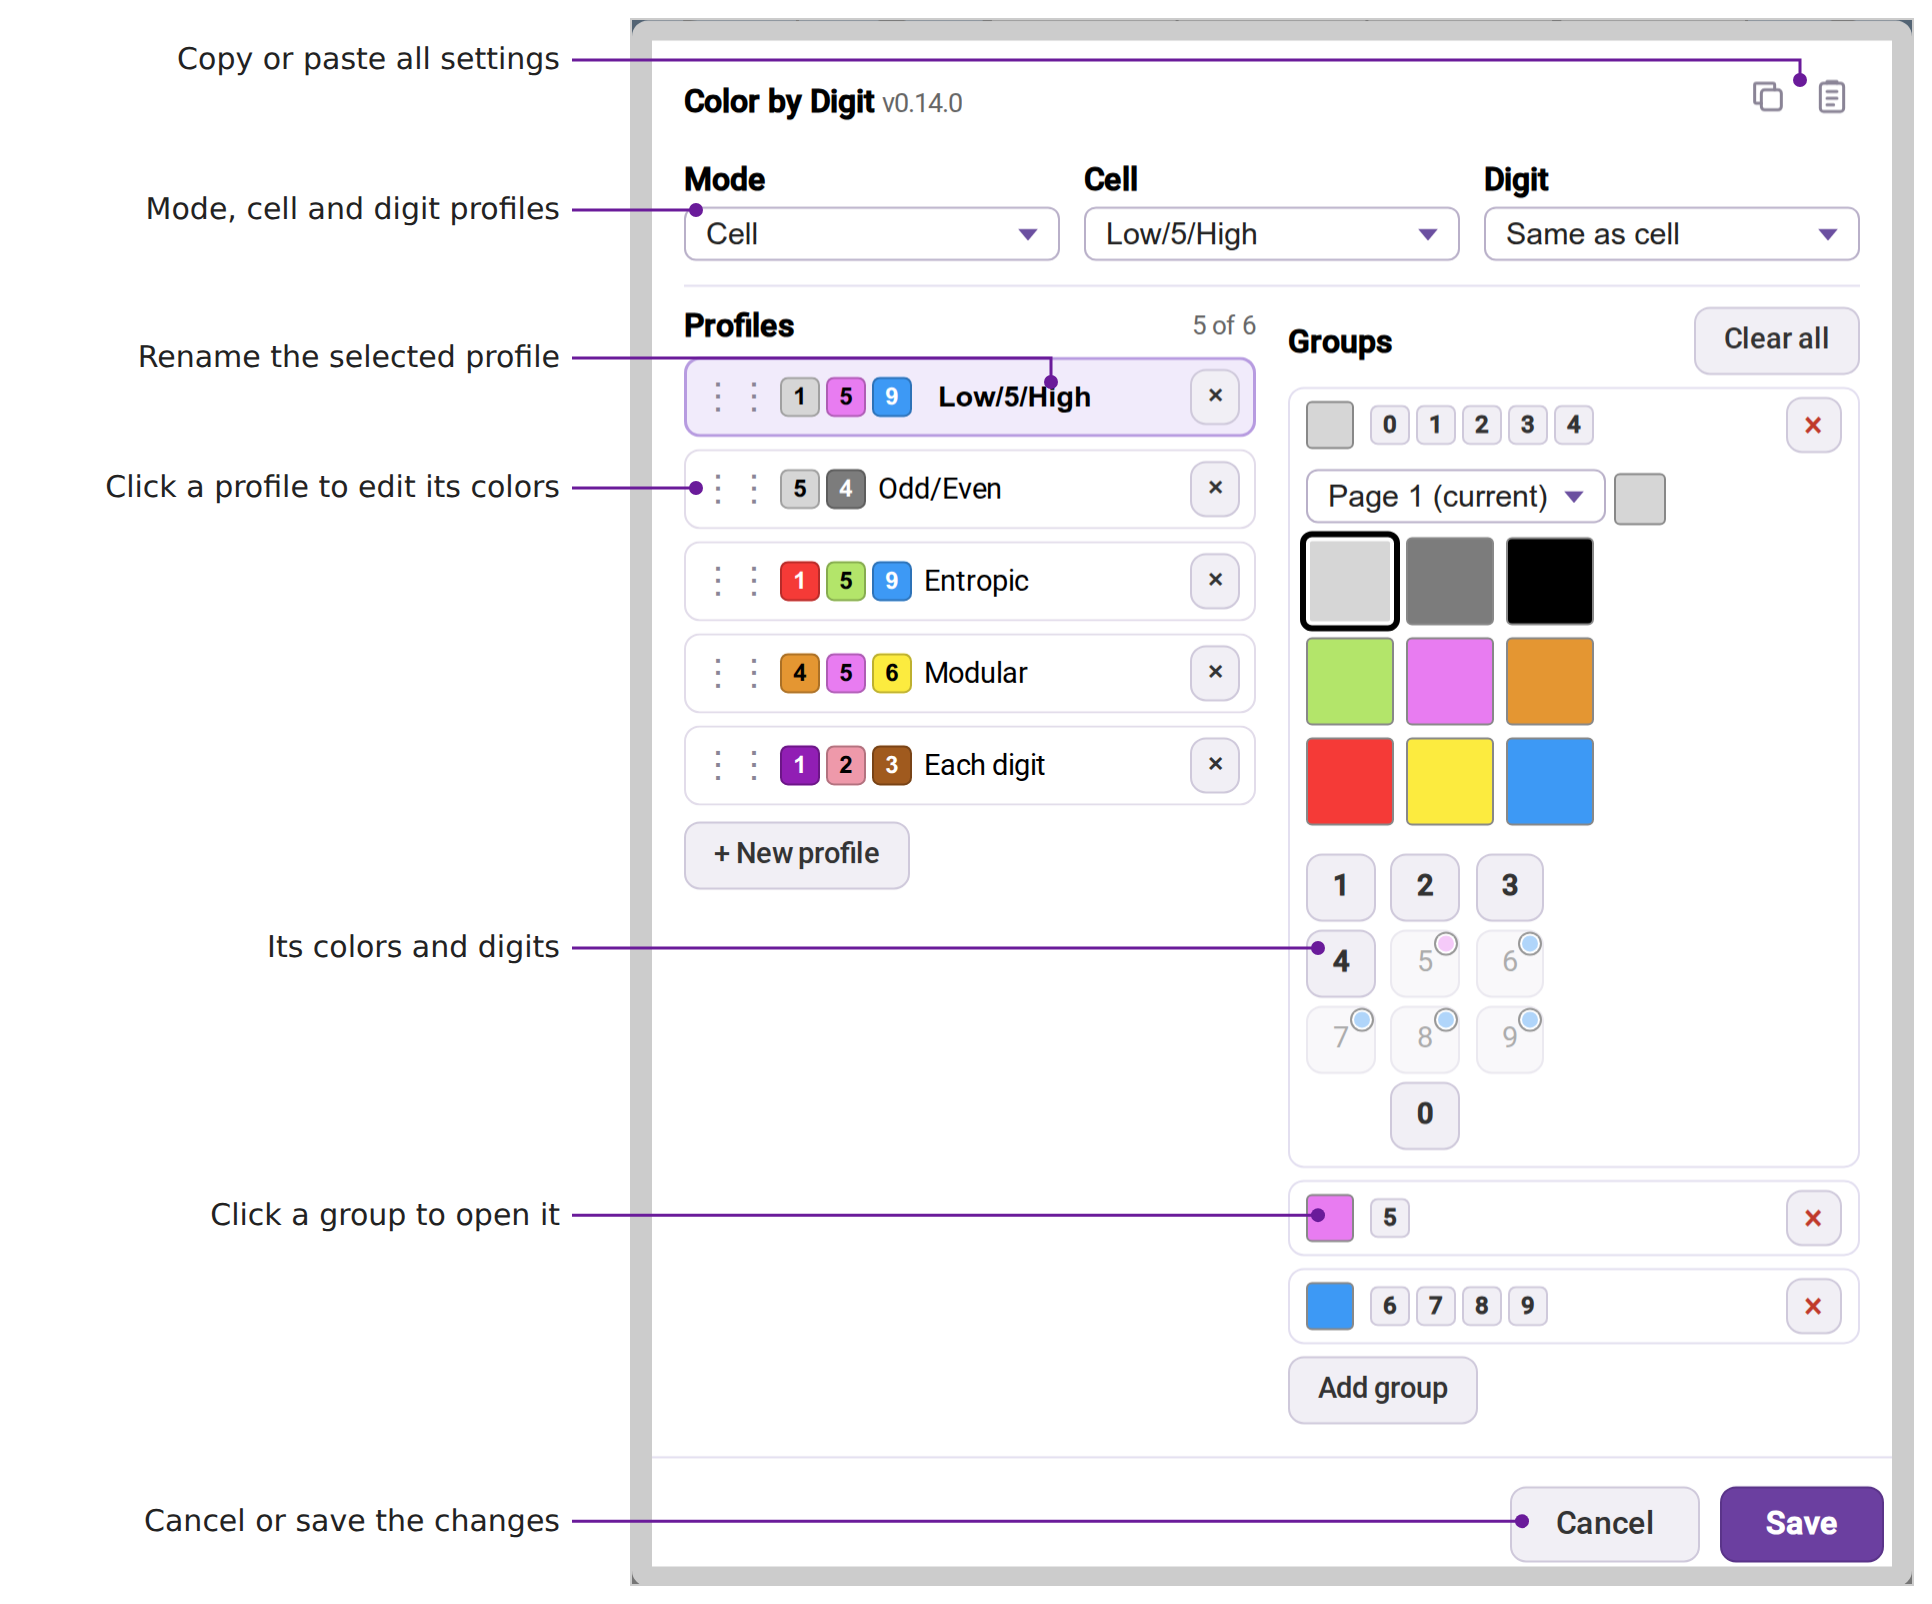
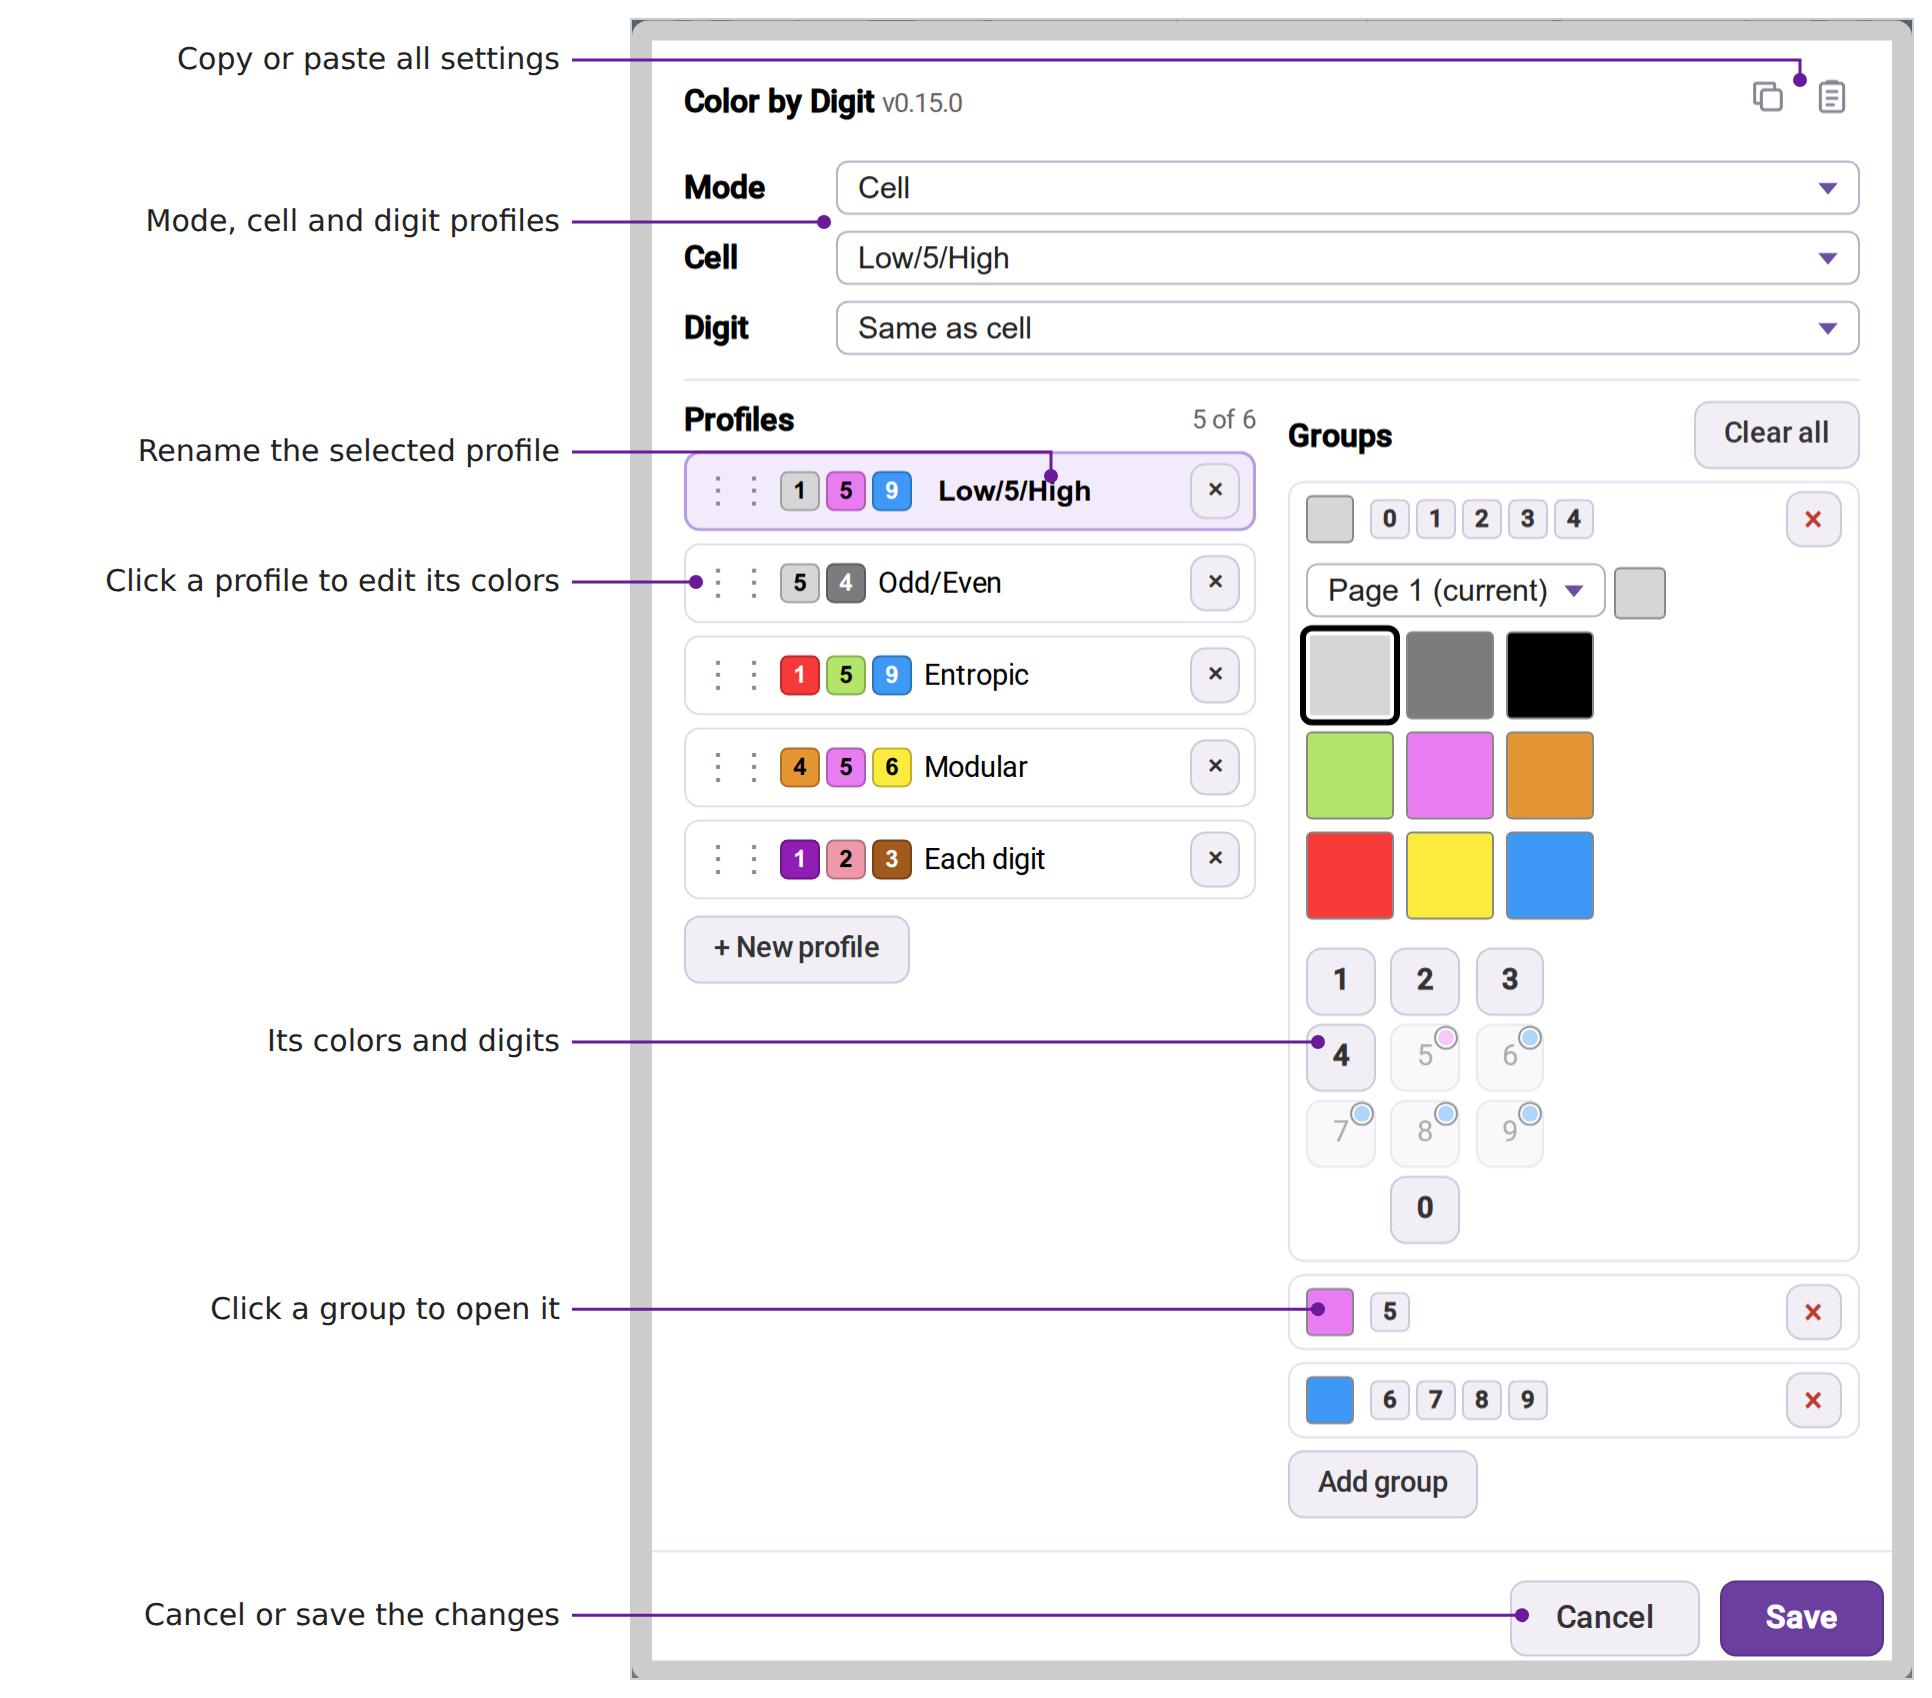
Color by Digit dialog: label-left pulldown rows (#346)
Mode, Cell and Digit go one per row, each label in a fixed-width column
left of its pulldown, at desktop and phone width. Version 0.15.0; the
annotated dialog picture is retaken and retagged. Part 2 (the open
group's side-by-side layout) is out of scope per the ticket's last comment.

Closes #346

diff --git a/color-by-digit.user.js b/color-by-digit.user.js
@@ -1,7 +1,7 @@
 // ==UserScript==
 // @name         SudokuPad Color by Digit
 // @namespace    https://github.com/caneff/sudokupad-scripts
-// @version      0.14.0
+// @version      0.15.0
 // @description  Colors cells, or the digits and marks in them, by digit, with colors you give to groups of digits, and keeps the colors in step as you solve.
 // @match        https://sudokupad.app/*
 // @match        https://*.sudokupad.app/*
@@ -17,7 +17,7 @@
   'use strict'
 
   // GM_info is absent without Tampermonkey, so the script cannot read @version; keep this equal to it.
-  const VERSION = '0.14.0'
+  const VERSION = '0.15.0'
   const SETTINGS_GROUP = 'experimental'
   // The groups saved before profiles existed. Read when no profiles are saved; never written or removed.
   const LEGACY_GROUPS_KEY = 'ColorByDigit_groups'
@@ -728,8 +728,8 @@
   const SMALL_BUTTON_SIZE = 28
   // Two columns need this much room each; the dialog's 640 px gives them two, a phone gives one.
   const COLUMN_MIN = 270
-  // Three pulldowns fit one row of the 640 px dialog; at phone width they stack.
-  const PULLDOWN_MIN = 180
+  // Wide enough for the longest of Mode, Cell and Digit, so the three pulldowns start at one edge.
+  const PULLDOWN_LABEL_WIDTH = 64
   const DIALOG_WIDTH = 640
   const heading = (text, extra = '') => `<div class="cbd-heading">${text}${extra}</div>`
   const SAVE_LABEL = 'Save'
@@ -859,8 +859,8 @@
     [`.dialog.${DIALOG_CLASS}`, `width: ${DIALOG_WIDTH}px; max-width: calc(100vw - 16px); box-sizing: border-box`],
     [`${EDITOR} .cbd-divider`, `border-top: 1px solid ${RULE_COLOR}; margin: 12px 0 0; padding-top: 10px`],
     [`${EDITOR} .cbd-note`, 'margin: 6px 0'],
-    [`${EDITOR} .cbd-pulldowns`, `display: grid; gap: 8px 12px; grid-template-columns: repeat(auto-fit, minmax(${PULLDOWN_MIN}px, 1fr)); margin: 0 0 10px`],
-    [`${EDITOR} .cbd-pulldown`, 'display: flex; flex-direction: column; gap: 4px; min-width: 0; margin: 0; padding: 0; font-weight: 600; text-align: left'],
+    [`${EDITOR} .cbd-pulldowns`, 'display: grid; gap: 8px; margin: 0 0 10px'],
+    [`${EDITOR} .cbd-pulldown`, `display: grid; grid-template-columns: ${PULLDOWN_LABEL_WIDTH}px minmax(0, 1fr); align-items: center; gap: 12px; min-width: 0; margin: 0; padding: 0; font-weight: 600; text-align: left`],
     [`${EDITOR} .cbd-columns`, `display: grid; gap: 16px; grid-template-columns: repeat(auto-fit, minmax(${COLUMN_MIN}px, 1fr))`],
     [`${EDITOR} .cbd-column`, 'min-width: 0'],
     [`${EDITOR} .cbd-button`, 'background: #f1eff5; color: #333; border: 1px solid #cfc9db; border-radius: 8px; font-size: .9rem; font-weight: 500; padding: 0 14px; height: 34px; line-height: 32px; margin: 0; cursor: pointer'],

diff --git a/site/color-by-digit.html b/site/color-by-digit.html
@@ -37,7 +37,7 @@
 
   <h2>The settings dialog</h2>
   <p>Edit profiles in the menu opens it. At the top are three pulldowns: Mode, Cell (the profile that colors the cells) and Digit (Same as cell, a profile, or None). Under them, on a desktop, are two columns, the profile list on the left and the selected profile's groups on the right; on a phone the pulldowns and the columns each stack.</p>
-  <img class="panel" src="https://raw.githubusercontent.com/caneff/sudokupad-scripts/main/docs/research/color-by-digit-dialog-annotated.png?v=f5e341a" alt="The Color by Digit settings dialog with each part labelled on its left. Settings icons: copy or paste all settings. Pulldowns: mode, cell and digit profiles. Selected profile: rename it in its row. Profile list: click a profile to edit its colors. Group rows: click a group to open it. Open group: its colors and digits. Bottom row: cancel or save the changes." width="966" height="802">
+  <img class="panel" src="https://raw.githubusercontent.com/caneff/sudokupad-scripts/main/docs/research/color-by-digit-dialog-annotated.png?v=cba63d6" alt="The Color by Digit settings dialog with each part labelled on its left. Settings icons: copy or paste all settings. Pulldowns: mode, cell and digit profiles. Selected profile: rename it in its row. Profile list: click a profile to edit its colors. Group rows: click a group to open it. Open group: its colors and digits. Bottom row: cancel or save the changes." width="966" height="802">
   <p>The profile list is only for editing: click a row to edit that profile's colors, rename it in its row, reorder, delete, or add a copy of it. The pulldowns pick which profile colors the cells and which the digits. In an open group's digit pad, a digit another group holds shows that group's color as a dot, and a click moves it. The two icons at the right end of the title row, Copy settings and Paste settings, move all of it to another browser. Save applies every change at once; Cancel drops them.</p>
 
   <h2>Good to know</h2>

diff --git a/color-by-digit.test.js b/color-by-digit.test.js
@@ -499,11 +499,13 @@ test('each pulldown option that names a profile carries its index, so a rename c
   assert.equal(count(renderPulldowns(hostile, 'cell'), /<option value="\d" data-index="\d"/g), 6)
 })
 
-test('the pulldowns sit above the profile list and the groups, in a grid that wraps by a minimum column width', () => {
+test('the pulldowns sit above the profile list and the groups, one per row, each label in a fixed-width column left of its select', () => {
   const html = renderEditor({ groups: [], pages: [], shown: [], pulldownsHtml: '<div id="pulldowns"></div>', profilesHtml: '<div id="mark-profiles"></div>' })
   assert.equal(html.indexOf('id="pulldowns"') < html.indexOf('mark-profiles'), true)
   const css = STYLE_CSS.replace(/\s+/g, ' ')
-  assert.match(css, /\.cbd-pulldowns \{ display: grid; gap: [\d px]+; grid-template-columns: repeat\(auto-fit, minmax\(\d+px, 1fr\)\)/)
+  assert.match(css, /\.cbd-pulldowns \{ display: grid; gap: \d+px; margin: 0 0 10px; \}/)
+  assert.match(css, /\.cbd-pulldown \{ display: grid; grid-template-columns: \d+px minmax\(0, 1fr\); align-items: center;/)
+  assert.doesNotMatch(css, /\.cbd-pulldowns \{[^}]*auto-fit/)
 })
 
 test('the dialog has the profile list and the groups editor as two columns of one grid, the list first', () => {
